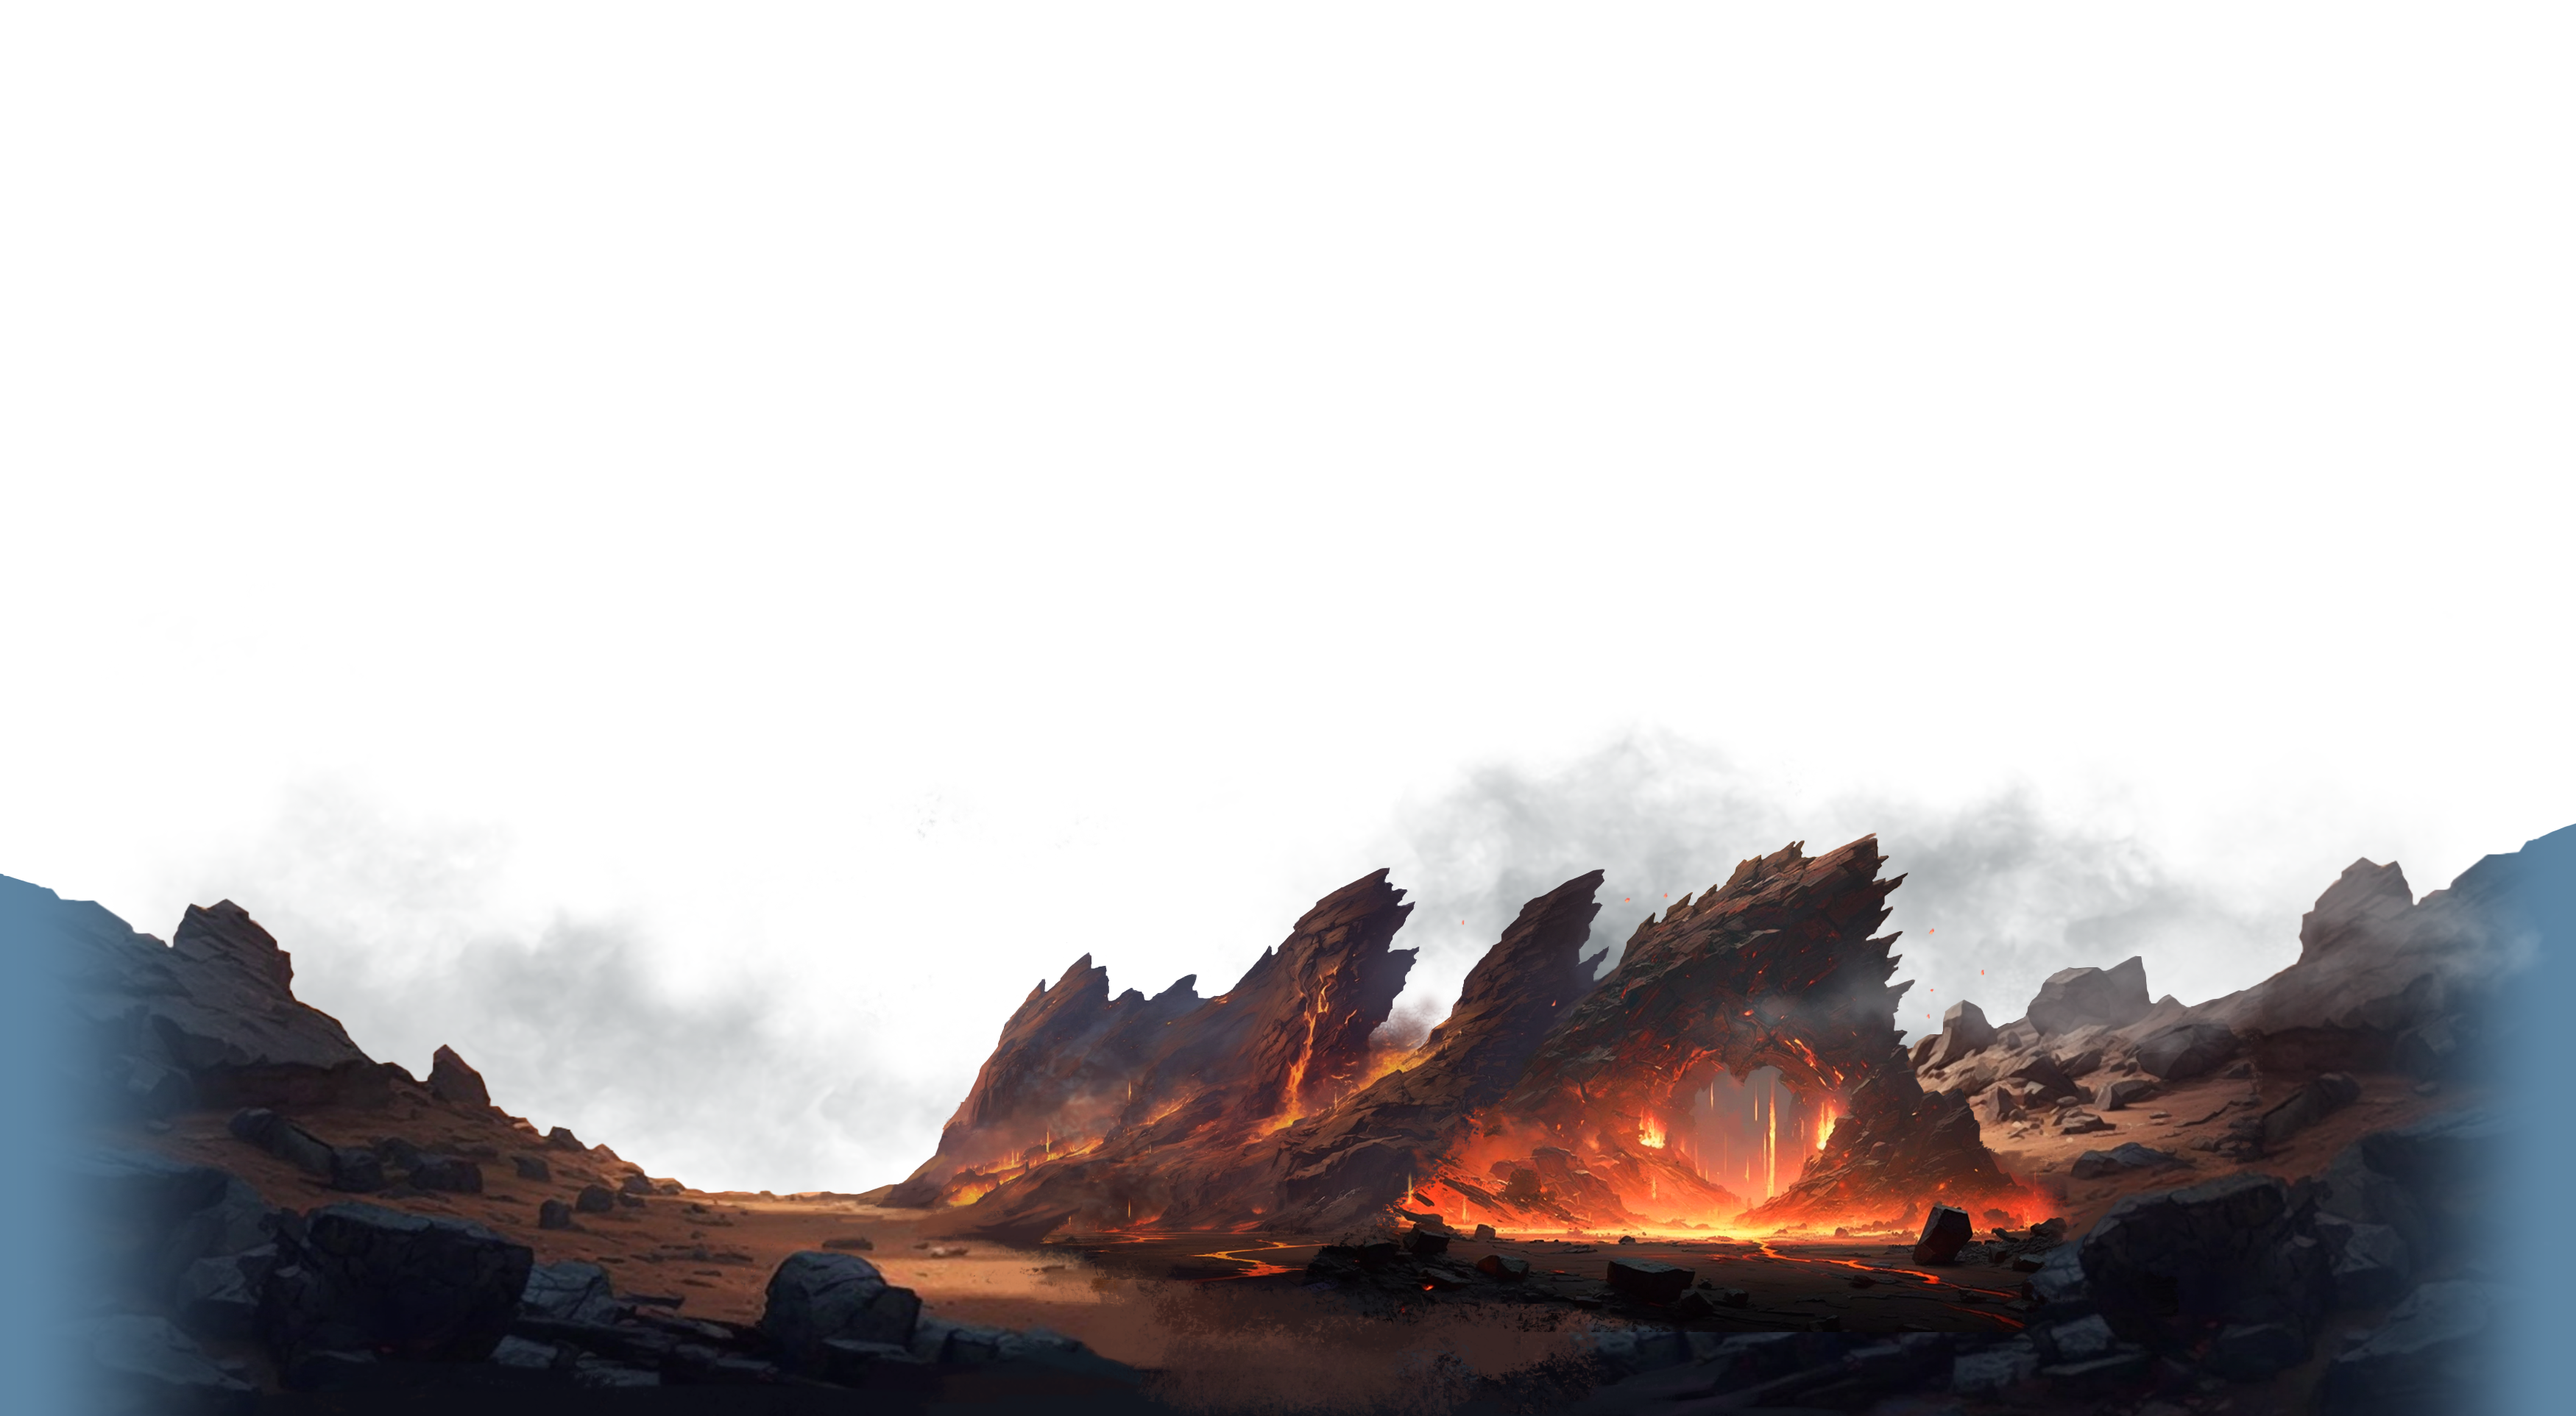
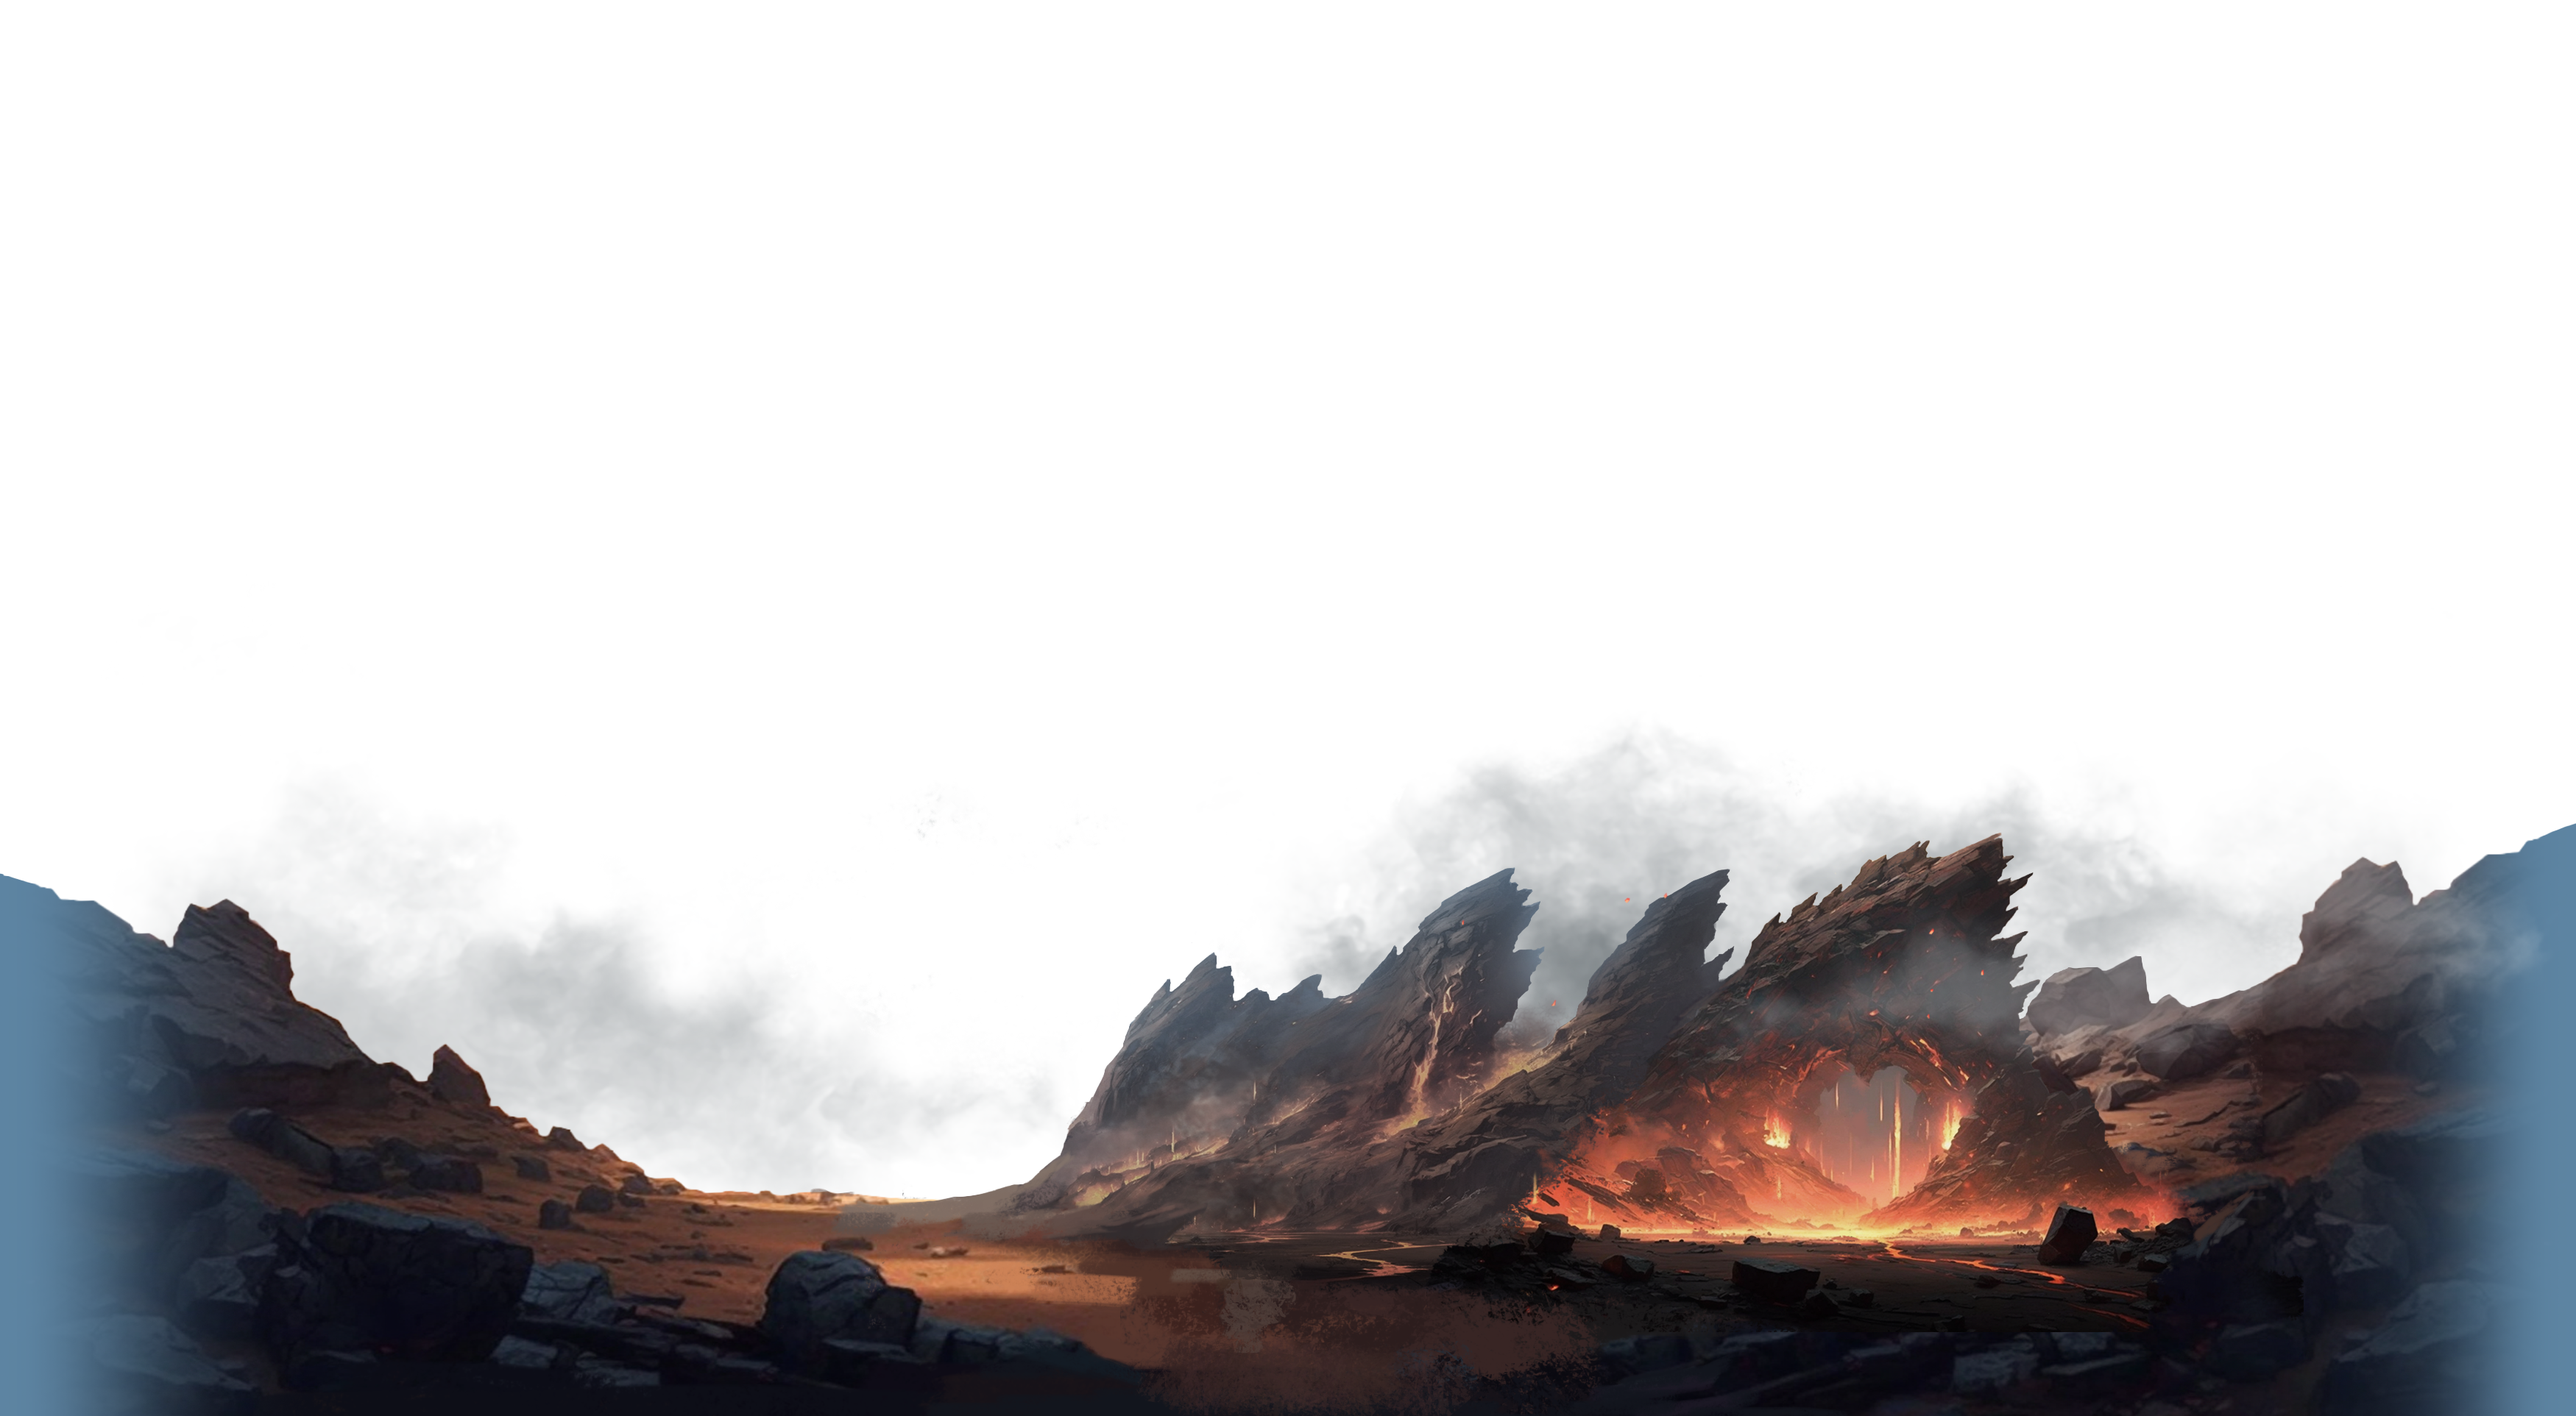
타이틀 블러 이펙트 추가

Changed region(s): [[0.3114, 0.5922, 0.872, 0.9351]]

diff --git a/index.html b/index.html
@@ -155,12 +155,12 @@
 
 
     <!-- ==========>> featured Project Section start Here <<========== -->
-    <section class="project project--featured padding-top padding-bottom">
+    <section class="project project--featured padding-top padding-bottom zindex99">
         
         <div class="container">
             <div class="project__wrapper">
                 <div class="row">
-                    <div class="col-lg-4 zindex99">
+                    <div class="col-lg-4">
                         <div class="section-header section-header--left">
                             <div class="section-header__content">
                                 <div class="section-header__titlebar">
@@ -180,7 +180,7 @@
                             </div>
                         </div>
                     </div>
-                    <div class="col-lg-8 zindex49">
+                    <div class="col-lg-8">
                         <div class="swiper project__slider2 py-2">
                             <div class="swiper-wrapper">
                                 <div class="swiper-slide">
@@ -442,7 +442,7 @@
 
 
     <!-- ==========>> Completed Project 2 Section start Here <<========== -->
-    <section class="project padding-bottom project--completed2 zindex29">
+    <section class="project padding-bottom project--completed2 bg--gradient-color50 zindex29">
         
         
         <div class="container">
@@ -464,7 +464,7 @@
                                 </div>
                                 <div class="benifit__item-content">
                                     <h4>Buy NFT</h4>
-                                    <p class="text-black">Link game accounts or buy bot NFTs after purchasing Default NFTs.
+                                    <p>Link game accounts or buy bot NFTs after purchasing Default NFTs.
                                     </p>
                                 </div>
                             </div>
@@ -478,7 +478,7 @@
                                 </div>
                                 <div class="benifit__item-content">
                                     <h4>Choose Contents</h4>
-                                    <p class="text-black">Equipped with NFTs and participate in multiple content. Select advantageous content by considering the options of the NFT you have.</p>
+                                    <p>Equipped with NFTs and participate in multiple content. Select advantageous content by considering the options of the NFT you have.</p>
                                 </div>
                             </div>
                         </div>
@@ -491,7 +491,7 @@
                                 </div>
                                 <div class="benifit__item-content">
                                     <h4>Earn or Staking</h4>
-                                    <p class="text-black">After the content ends, you can receive the token in your wallet or Staking to receive bonus points on the next settlement.
+                                    <p>After the content ends, you can receive the token in your wallet or Staking to receive bonus points on the next settlement.
                                     </p>
                                 </div>
                             </div>
@@ -507,7 +507,7 @@
 
 
     <!-- ==========>> benifits Section start Here <<========== -->
-    <section class="benifit padding-top padding-bottom bg--gradient-color50 zindex29">
+    <section class="benifit padding-top padding-bottom bg--gradient-color zindex59">
         <div class="container">
             <div class="section-header section-header--left">
                 <div class="section-header__content">
@@ -707,11 +707,8 @@
 
 
 
-
-
-
     <!-- ================> tier start here <================== -->
-    <div class="tier padding-top padding-bottom bg--gradient-color zindex29">
+    <div class="tier padding-top padding-bottom bg--primary-color zindex59">
         <div class="container">
             <div class="section-header section-header--middle">
                 <div class="section-header__content">
@@ -824,8 +821,6 @@
         </div>
     </div>
     <!-- ================> tier end here <================== -->
-
-
 
 
 

diff --git a/assets/css/style.css b/assets/css/style.css
@@ -5046,12 +5046,25 @@ section.mainPage .container{
   position: relative;
 }
 section.mainPage .logo_big {
-  position: absolute;
-  top: 55%;
-  left: 5%;
+  position: fixed;
   width: 100%;
   z-index: 999;
+  top: 13%;
+  left: 50%;
+  transform: translateX(-50%);
+  display: flex;
+  justify-content: center;
+  animation: titleBlur 3s ease 1;
 }
+.blur {
+  -webkit-filter: blur(10px);
+  -moz-filter: blur(10px);
+  -o-filter: blur(10px);
+  -ms-filter: blur(10px);
+  filter: blur(10px);
+}
+
+
 section.mainPage .logo_big img {
   width: 23rem;
 }
@@ -5226,25 +5239,35 @@ section.subPage.lastPage .innerWrap .contWrap {
   border-radius: 1rem;
 }
 
+/* 배경 */
+section.mainPage .imageWrap .parallax_image:nth-child(1){
+  animation: backdrop-filter-animation 15s ease 1 both;
+}
 
+@keyframes backdrop-filter-animation {
+  from {
+    filter: blur(20px);
+  }
+  to {
+    filter: blur(0px);
+  }
+}
+
+/* 얼음 */
 section.mainPage .imageWrap .parallax_image:nth-child(2){
   animation: backdrop-filter-animation 15s ease-in-out 1 both;
 }
 
 @keyframes backdrop-filter-animation {
   0% {
-    transform: translateY(0);
-    filter: blur(15px) saturate(130%);
-  }
-  20% {
-    transform: translateY(0);
+    filter: blur(15px) saturate(60%);
   }
   to {
-    transform: translateY(-180px);
-    filter: blur(0px) brightness(100%) saturate(100%);
+    filter: blur(0px) saturate(100%);
   }
 }
 
+/* 화산 */
 section.mainPage .imageWrap .parallax_image:nth-child(3){
   filter: blur(10px);
   animation: backdrop-filter-animation 10s ease 1 both;
@@ -5252,13 +5275,14 @@ section.mainPage .imageWrap .parallax_image:nth-child(3){
 
 @keyframes backdrop-filter-animation {
   from {
-    filter: blur(10px) brightness(150%) saturate(130%);
+    filter: blur(10px) brightness(130%) saturate(60%);
   }
   to {
-    filter: blur(0px) saturate(100%) brightness(100%);
+    filter: blur(0px) brightness(100%) saturate(100%);
   }
 }
 
+/* 정글 */
 section.mainPage .imageWrap .parallax_image:nth-child(4){
   filter: blur(5px);
   animation: backdrop-filter-animation 5s ease 1 both;
@@ -5266,13 +5290,14 @@ section.mainPage .imageWrap .parallax_image:nth-child(4){
 
 @keyframes backdrop-filter-animation {
   from {
-    filter: blur(5px) saturate(120%) brightness(130%);
+    filter: blur(5px) brightness(130%) saturate(50%);
   }
   to {
-    filter: blur(0px) saturate(100%) brightness(100%);
+    filter: blur(0px) brightness(100%) saturate(80%);
   }
 }
 
+/* 성 */
 section.mainPage .imageWrap .parallax_image:nth-child(5){
   filter: blur(3px);
   animation: backdrop-filter-animation 3s ease 1 both;
@@ -5280,10 +5305,10 @@ section.mainPage .imageWrap .parallax_image:nth-child(5){
 
 @keyframes backdrop-filter-animation {
   from {
-    filter: blur(3px) saturate(120%) brightness(130%);
+    filter: blur(3px) brightness(130%) saturate(50%);
   }
   to {
-    filter: blur(0px) saturate(100%) brightness(100%);
+    filter: blur(0px) brightness(100%) saturate(100%);
   }
 }
 

diff --git a/assets/js/custom.js b/assets/js/custom.js
@@ -233,12 +233,37 @@ window.onload = function() {
     loop();
 }
 
+// function scrollFunc(e) {
+//     scrollTop = this.scrollY;
+
+//     for(var i=0; i< totalNum ; i++){
+//         imageAll[i].style.transform = "perspective(200px) translateZ("+ scrollTop/(5*(totalNum-i)) +"px)";
+//         console.log(scrollTop , scrollTop / (5*(totalNum-i)) );
+//     }
+// };
+
+// 이미지별 이동될 범위 및 속도
+//(최대높이, 속도(높을수록 느리게))
+var bgTranslation = [
+    [0, 7000], // main_0.png
+    [-1000, -200], // main_1.png
+    [-900, -100], // main_2.png
+    [-800, -80], // main_3.png
+    [-1200, -30], // main_4.png
+    [500, -500], // main_5.png
+    [0, 0], // main_6.png
+]
 function scrollFunc(e) {
     scrollTop = this.scrollY;
-
     for(var i=0; i< totalNum ; i++){
-        imageAll[i].style.transform = "perspective(200px) translateZ("+ scrollTop/(5*(totalNum-i)) +"px)";
-        console.log(scrollTop , scrollTop / (5*(totalNum-i)) );
+        var translateY = scrollTop / bgTranslation[i][1]
+        if (Math.abs(translateY) > Math.abs(bgTranslation[i][0])) {
+            translateY = bgTranslation[i][0]
+        }
+        var translateZ = scrollTop / (5*(totalNum-i))
+        console.log(translateY, translateZ);
+        imageAll[i].style.transform = "perspective(350px) translateY("+ translateY +"px) translateZ("+ translateZ +"px)";
+        // console.log(scrollTop , scrollTop / (5*(totalNum-i)) );
     }
 };
 
@@ -260,5 +285,11 @@ function loop() {
 
 // title fade out
 $(window).scroll(function () {
-	$(".logo_big").css("opacity", 1 - $(window).scrollTop() / 200);
+    if ($(window).scrollTop() > 200) {
+	    $(".logo_big").css("opacity", 1 - $(window).scrollTop() / 800);
+        $(".logo_big").addClass("blur");
+    } else {
+        $(".logo_big").css("opacity", 1);
+        $(".logo_big").removeClass("blur");
+    }
 });
